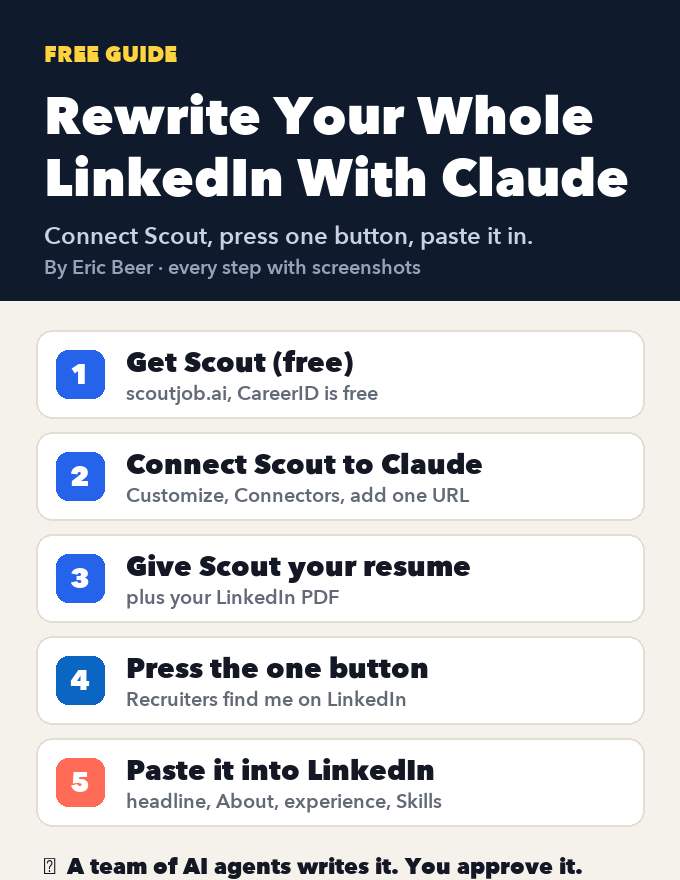
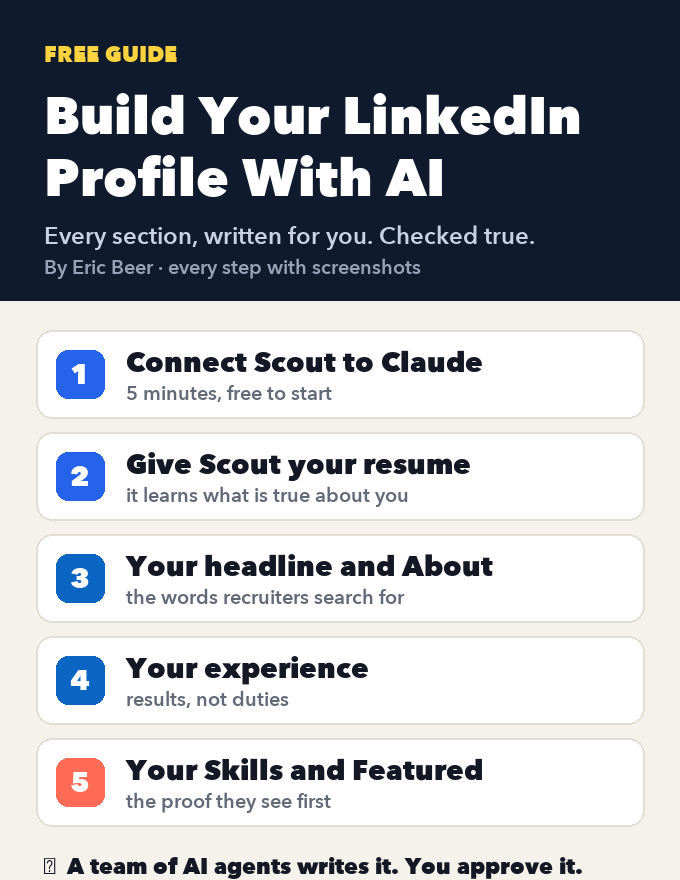
LINKEDIN guide: refocus on building your LinkedIn profile section by section (headline, About, experience, Skills, Featured), with Scout + Claude as the way to do it

diff --git a/g/scout-linkedin-profile-3ece25707d/index.html b/g/scout-linkedin-profile-3ece25707d/index.html
@@ -3,11 +3,11 @@
 <head>
 <meta charset="utf-8">
 <meta name="viewport" content="width=device-width, initial-scale=1">
-<title>Rewrite Your LinkedIn With Claude | Eric Beer</title>
-<meta name="description" content="Connect Scout to Claude, give it your resume, and press one button. A team of AI agents writes your headline, About, experience, Featured and Skills, checked against what&#x27;s true. Every step with screenshots.">
+<title>Build Your LinkedIn Profile With AI | Eric Beer</title>
+<meta name="description" content="Create or fix your LinkedIn profile, section by section: headline, About, experience, Skills and Featured. Connect Scout to Claude, give it your resume, and AI agents write every section, checked against what&#x27;s true. Every step with screenshots.">
 <link rel="canonical" href="https://ericbeer.ai/g/scout-linkedin-profile-3ece25707d/">
-<meta property="og:title" content="Rewrite Your LinkedIn With Claude | Eric Beer">
-<meta property="og:description" content="Connect Scout to Claude, give it your resume, and press one button. A team of AI agents writes your headline, About, experience, Featured and Skills, checked against what&#x27;s true. Every step with screenshots.">
+<meta property="og:title" content="Build Your LinkedIn Profile With AI | Eric Beer">
+<meta property="og:description" content="Create or fix your LinkedIn profile, section by section: headline, About, experience, Skills and Featured. Connect Scout to Claude, give it your resume, and AI agents write every section, checked against what&#x27;s true. Every step with screenshots.">
 <meta property="og:type" content="website">
 <meta property="og:url" content="https://ericbeer.ai/g/scout-linkedin-profile-3ece25707d/">
 <meta property="og:image" content="https://ericbeer.ai/assets/eric-hero.jpg">
@@ -23,9 +23,9 @@
 <div class="full-card"><h2>Want the complete guide?</h2><p>The full guide, every other guide, the AI agents I use and live calls are going inside my community. Join the waitlist for the founding-member price.</p>
 <a class="btn btn-gold" href="/#waitlist">Join the waitlist &rarr;</a></div>
 <div class="script">your free guide</div>
-<h1>Let Claude rewrite your whole LinkedIn profile: connect Scout and press one button</h1>
-<div class="gintro"><p>My LinkedIn profile got hacked. Someone filled it with jobs I never had, at Boeing and Lockheed, and a university I never went to. On top of that, I hadn't really updated it in years, because rewriting your own profile is a chore nobody wants.</p><p>So I let Claude do it. I connected a tool called Scout to Claude, gave it my resume, and pressed one button. A team of AI agents read my background, checked every line against what's actually true, and rewrote my whole profile: headline, About, experience, Featured and Skills.</p><p>Here's exactly how to do the same thing, step by step, with a screenshot of every screen. It takes about 15 minutes.</p><p><b>One honest note before you start:</b> Scout writes everything, and you paste it into LinkedIn yourself. Scout never logs into LinkedIn or posts for you, because LinkedIn bans automated activity and your account is worth protecting. Copying a few sections in takes a couple of minutes.</p></div>
-<section class="gsec"><div class="gnum">1</div><h2>Step 1: Get Scout (free)</h2><p>Scout is the AI job agent that does the work. It's built by BeChosen and lives at <b>scoutjob.ai</b>. Your CareerID (the profile Scout builds about you) is free, and the paid tools come with a 7-day trial, no card needed.</p><p>Go to <a href="https://scoutjob.ai" target="_blank" rel="noopener">scoutjob.ai</a> and click <b>Start free</b>.</p><img src="/assets/guides/linkedin/01-scoutjob-home.jpg" alt="The scoutjob.ai home page with the Start free button" loading="lazy" style="display:block;width:100%;height:auto;border:1px solid #E3E7EF;border-radius:12px;margin:14px 0"><p>While you're getting set up, grab two files you'll give Scout in Step 4:</p><ol><li><b>Your resume</b> (PDF or Word).</li><li><b>Your LinkedIn profile as a PDF.</b> On LinkedIn, open your profile, click <b>Resources</b> (or <b>More</b>), then <b>Save to PDF</b>.</li></ol></section><section class="gsec"><div class="gnum">2</div><h2>Step 2: Connect Scout to Claude</h2><p>Now plug Scout into Claude. This works on claude.ai and in the Claude desktop app.</p><ol><li>Click <b>Customize</b> in the left sidebar, then <b>Connectors</b>.</li></ol><img src="/assets/guides/linkedin/02-claude-connectors.jpg" alt="Claude settings open on the Connectors page" loading="lazy" style="display:block;width:100%;height:auto;border:1px solid #E3E7EF;border-radius:12px;margin:14px 0"><ol start="2"><li>Click <b>Add</b> in the top right, then <b>Add custom connector</b>.</li></ol><img src="/assets/guides/linkedin/03-add-custom-connector.jpg" alt="The Add menu showing Add custom connector" loading="lazy" style="display:block;width:100%;height:auto;border:1px solid #E3E7EF;border-radius:12px;margin:14px 0"><ol start="3"><li>Name it <b>Scout Jobs</b>. For the URL, paste this exactly:</li></ol><div class="prompt"><span class="tag">Paste this URL</span>https://scoutjob.ai/mcp</div><img src="/assets/guides/linkedin/04-scout-url.jpg" alt="The Add custom connector form filled in with Scout Jobs and https://scoutjob.ai/mcp" loading="lazy" style="display:block;width:100%;height:auto;border:1px solid #E3E7EF;border-radius:12px;margin:14px 0"><ol start="4"><li>Leave everything else as it is (no client ID or secret needed) and click <b>Continue</b>.</li><li>When it asks, sign in with your BeChosen account and tap <b>Allow</b>.</li></ol><p>You'll see Scout in your connectors list, marked <b>Connected</b>.</p><img src="/assets/guides/linkedin/05-scout-connected.jpg" alt="Scout listed in Claude's connectors with a Connected check mark" loading="lazy" style="display:block;width:100%;height:auto;border:1px solid #E3E7EF;border-radius:12px;margin:14px 0"><p>Custom connectors depend on your Claude plan. If you don't see <b>Add custom connector</b>, check Claude's help page on custom connectors for your plan.</p></section><section class="gsec"><div class="gnum">3</div><h2>Step 3: Let Scout work without asking every time</h2><p>One more setting, and it matters. Open <b>Scout</b> in your connectors list. Under <b>Tool permissions</b>, set the groups to <b>Always allow</b>.</p><img src="/assets/guides/linkedin/06-always-allow.jpg" alt="Scout's tool permissions in Claude set to Always allow" loading="lazy" style="display:block;width:100%;height:auto;border:1px solid #E3E7EF;border-radius:12px;margin:14px 0"><p>That lets Scout work for you without stopping to ask permission at every step. Anything that sends, applies, publishes or charges money still needs your own tap on a scoutjob.ai page, so you stay in control.</p></section><section class="gsec"><div class="gnum">4</div><h2>Step 4: Give Scout your resume</h2><p>Open a new chat in Claude, attach your resume and your LinkedIn PDF, and say hi.</p><div class="prompt"><span class="tag">Copy this in</span>Hi Scout. Here's my resume and my LinkedIn profile as a PDF. Get to know me and build my CareerID. The job I want next is <span class="fill">[the role or kind of role you want]</span>.</div><p>Scout reads everything and builds your <b>CareerID</b>: a detailed profile of your background, your results, and what's actually true about you. Everything else Scout does is checked against it. That's why the fake Boeing and Lockheed jobs on my profile didn't survive: they weren't in my CareerID, so Scout flagged them instead of keeping them.</p><p>Ask for the menu any time:</p><div class="prompt"><span class="tag">Copy this in</span>Scout, show me the menu</div><img src="/assets/guides/linkedin/07-scout-menu.jpg" alt="The Scout Jobs menu inside a Claude chat" loading="lazy" style="display:block;width:100%;height:auto;border:1px solid #E3E7EF;border-radius:12px;margin:14px 0"></section><section class="gsec"><div class="gnum">5</div><h2>Step 5: Press the one button</h2><p>In the menu, under <b>Prepare your materials</b>, tap <b>Recruiters find me on LinkedIn</b>. (Or just type <b>Start: Recruiters find me on LinkedIn</b>.)</p><img src="/assets/guides/linkedin/08-linkedin-button.jpg" alt="The Recruiters find me on LinkedIn button in Scout's menu" loading="lazy" style="display:block;width:100%;height:auto;border:1px solid #E3E7EF;border-radius:12px;margin:14px 0"><p>This is the one button. Behind it, a LinkedIn Profile manager runs a team of specialist agents:</p><ul><li><b>Resume Reader</b> takes in your resume, your LinkedIn PDF and the jobs you want.</li><li><b>Role Analyst</b> pulls the words recruiters actually search for in those jobs.</li><li><b>Profile Auditor</b> checks your current profile against those jobs before changing anything.</li><li><b>Positioner</b> decides who your profile says you are.</li><li><b>Proof Selector</b> picks the best proof for each section.</li><li><b>Profile Writer</b> writes your headline, About, experience, Featured and Skills.</li><li><b>Claim Checker</b> checks every line against your CareerID, so nothing untrue gets in.</li><li><b>Activity Planner</b> plans 4 weeks of posts that show what you know.</li><li><b>Outreach Writer</b> drafts endorsement asks for you to send.</li></ul><p>You get back every section, ready to paste.</p></section><section class="gsec"><div class="gnum">6</div><h2>Step 6: Paste it into LinkedIn</h2><p>Open your LinkedIn profile in another tab and work top to bottom: headline, About, each job in Experience, Featured, then Skills. Click the pencil on each section and paste in what Scout wrote.</p><p>If something doesn't sound like you, tell Scout. It rewrites from your CareerID, so it stays true.</p><div class="prompt"><span class="tag">Copy this in</span>Scout, my About section sounds too formal. Rewrite it the way I talk: <span class="fill">[paste a sentence or two you'd actually say]</span>.</div><div class="prompt"><span class="tag">Copy this in</span>Scout, give me 3 more headline options aimed at <span class="fill">[the role you want]</span>, under 220 characters.</div><p>If your profile was tampered with like mine, delete anything Scout flagged as not matching your CareerID, then change your LinkedIn password and turn on two-step verification.</p></section><section class="gsec"><div class="gnum">7</div><h2>Keep it current from now on</h2><p>Your profile goes stale because updating it is a chore. With Scout it isn't. When something changes, tell Scout in one line and it keeps your CareerID current:</p><div class="prompt"><span class="tag">Copy this in</span>Scout, here's what happened today: <span class="fill">[new project, new result, new certification, new role]</span>.</div><p>Then run <b>Recruiters find me on LinkedIn</b> again whenever you want the profile refreshed. Scout also posts nothing for you: the 4 weeks of posts it plans are drafts you copy and post yourself.</p></section>
+<h1>Build your LinkedIn profile with AI: connect Scout to Claude and let it write every section</h1>
+<div class="gintro"><p>Your LinkedIn profile is the first thing a recruiter checks. Mine was a mess. Someone hacked it and filled it with jobs I never had, at Boeing and Lockheed, and a university I never went to. And I hadn't really updated it in years, because writing your own profile is a chore nobody wants.</p><p>So I had AI build the whole thing. I connected a tool called Scout to Claude, gave it my resume, and pressed one button. A team of AI agents wrote every section of my profile, checked every line against what's actually true about me, and handed it back ready to paste.</p><p>This guide walks you through building your LinkedIn profile the same way, section by section: headline, About, experience, Skills and Featured. It works whether you're fixing an old profile or creating one from scratch.</p><p><b>How it works, honestly:</b> Scout writes everything, and you paste it into LinkedIn yourself. Scout never logs into LinkedIn or posts for you, because LinkedIn bans automated activity and your account is worth protecting. Pasting each section takes a minute.</p></div>
+<section class="gsec"><div class="gnum">1</div><h2>Step 1: Connect Scout to Claude (5 minutes)</h2><p>Five minutes of setup, once. After this, Scout lives inside Claude and knows you.</p><ol><li>Go to <a href="https://scoutjob.ai" target="_blank" rel="noopener">scoutjob.ai</a> and click <b>Start free</b>. Your CareerID (the profile Scout builds about you) is free, and the paid tools come with a 7-day trial, no card needed.</li></ol><img src="/assets/guides/linkedin/01-scoutjob-home.jpg" alt="The scoutjob.ai home page with the Start free button" loading="lazy" style="display:block;width:100%;height:auto;border:1px solid #E3E7EF;border-radius:12px;margin:14px 0"><ol start="2"><li>In Claude, click <b>Customize</b> in the left sidebar, then <b>Connectors</b>. Click <b>Add</b>, then <b>Add custom connector</b>.</li></ol><img src="/assets/guides/linkedin/03-add-custom-connector.jpg" alt="The Add menu in Claude's connectors showing Add custom connector" loading="lazy" style="display:block;width:100%;height:auto;border:1px solid #E3E7EF;border-radius:12px;margin:14px 0"><ol start="3"><li>Name it <b>Scout Jobs</b> and paste this URL, then click <b>Continue</b>. Sign in with your BeChosen account and tap <b>Allow</b>.</li></ol><div class="prompt"><span class="tag">Paste this URL</span>https://scoutjob.ai/mcp</div><img src="/assets/guides/linkedin/04-scout-url.jpg" alt="The Add custom connector form filled in with Scout Jobs and https://scoutjob.ai/mcp" loading="lazy" style="display:block;width:100%;height:auto;border:1px solid #E3E7EF;border-radius:12px;margin:14px 0"><ol start="4"><li>Open <b>Scout</b> in your connectors list and set <b>Tool permissions</b> to <b>Always allow</b>, so Scout can work without stopping to ask at every step. Anything that sends, applies, publishes or charges money still needs your own tap.</li></ol><img src="/assets/guides/linkedin/06-always-allow.jpg" alt="Scout's tool permissions in Claude set to Always allow" loading="lazy" style="display:block;width:100%;height:auto;border:1px solid #E3E7EF;border-radius:12px;margin:14px 0"><p>Custom connectors depend on your Claude plan. If you don't see <b>Add custom connector</b>, check Claude's help page on custom connectors.</p></section><section class="gsec"><div class="gnum">2</div><h2>Step 2: Give Scout your resume</h2><p>Your profile can only be as good as what Scout knows about you. Open a new chat in Claude and attach:</p><ul><li><b>Your resume</b> (PDF or Word).</li><li><b>Your current LinkedIn profile as a PDF</b>, if you have one. On LinkedIn, open your profile, click <b>Resources</b> (or <b>More</b>), then <b>Save to PDF</b>. No profile yet? Skip it.</li></ul><div class="prompt"><span class="tag">Copy this in</span>Hi Scout. Here's my resume and my LinkedIn profile as a PDF. Get to know me and build my CareerID. I want my LinkedIn profile to get me found for <span class="fill">[the role or kind of role you want next]</span>.</div><p>Scout builds your <b>CareerID</b>: what you've done, the results you got, and what's actually true about you. Every line of your new profile gets checked against it. That's how the fake Boeing and Lockheed jobs on my profile got caught: they weren't in my CareerID, so Scout flagged them instead of keeping them.</p></section><section class="gsec"><div class="gnum">3</div><h2>Step 3: Press the one button</h2><p>Ask Scout for the menu, then under <b>Prepare your materials</b> tap <b>Recruiters find me on LinkedIn</b>.</p><div class="prompt"><span class="tag">Copy this in</span>Scout, show me the menu</div><img src="/assets/guides/linkedin/08-linkedin-button.jpg" alt="The Recruiters find me on LinkedIn button in Scout's menu" loading="lazy" style="display:block;width:100%;height:auto;border:1px solid #E3E7EF;border-radius:12px;margin:14px 0"><p>(Or just type <b>Start: Recruiters find me on LinkedIn</b>.)</p><p>Behind that one button, a team of AI agents builds your profile:</p><ul><li><b>Role Analyst</b> pulls the words recruiters actually search for in the jobs you want.</li><li><b>Profile Auditor</b> checks your current profile against those jobs before changing anything.</li><li><b>Positioner</b> decides who your profile says you are, in one clear line.</li><li><b>Profile Writer</b> writes your headline, About, experience, Featured and Skills.</li><li><b>Claim Checker</b> checks every line against your CareerID, so nothing untrue gets in.</li><li><b>Activity Planner</b> plans 4 weeks of posts that show what you know.</li></ul><p>You get every section back, ready to paste. The next steps take them one at a time.</p></section><section class="gsec"><div class="gnum">4</div><h2>Step 4: Your headline</h2><p>The headline is the line under your name. It shows up in search results, in comments and on every message you send, so it does more work than any other part of your profile. A good one says who you help or what you do, with the words recruiters search for. Not just your job title.</p><div class="prompt"><span class="tag">Copy this in</span>Scout, give me 5 LinkedIn headline options for <span class="fill">[the role you want]</span>, using the words recruiters search for. Under 220 characters each.</div><p style="background:#F4F6FB;border-radius:10px;padding:12px 16px;margin:12px 0"><b>Where it goes on LinkedIn:</b> your profile, click the pencil next to your name. The headline is the field under your name. Paste it, then click <b>Save</b>.</p></section><section class="gsec"><div class="gnum">5</div><h2>Step 5: Your About section</h2><p>Your About section is where a recruiter decides whether to keep reading. It should sound like you talking: what you do, the results you've gotten, and what you want next. Scout writes it from your CareerID, so every claim in it is true.</p><div class="prompt"><span class="tag">Copy this in</span>Scout, rewrite my About section the way I talk. Here's a sentence or two I'd actually say: <span class="fill">[paste one or two sentences]</span>.</div><p style="background:#F4F6FB;border-radius:10px;padding:12px 16px;margin:12px 0"><b>Where it goes on LinkedIn:</b> on your profile, find the <b>About</b> section and click the pencil (or <b>Add profile section</b>, then <b>About</b>, if you don't have one). Paste it and click <b>Save</b>.</p></section><section class="gsec"><div class="gnum">6</div><h2>Step 6: Your experience</h2><p>Each job should show results, not duties. Scout rewrites every role around what you got done, using the proof from your CareerID.</p><div class="prompt"><span class="tag">Copy this in</span>Scout, for each job in my experience, give me the title, company, dates and 3 to 5 lines that lead with results. Flag anything on my current profile that isn't in my CareerID.</div><p style="background:#F4F6FB;border-radius:10px;padding:12px 16px;margin:12px 0"><b>Where it goes on LinkedIn:</b> in the <b>Experience</b> section, click the pencil on each job and paste the new description. If Scout flagged a job you never had (like the ones on my hacked profile), delete it. If a job is missing, click the <b>+</b> to add it.</p><p>If your profile was tampered with like mine, also change your LinkedIn password and turn on two-step verification.</p></section><section class="gsec"><div class="gnum">7</div><h2>Step 7: Your Skills and Featured</h2><p><b>Skills:</b> recruiters filter by them. Scout picks the ones that match your target jobs, in the words recruiters use.</p><div class="prompt"><span class="tag">Copy this in</span>Scout, list the 15 LinkedIn skills I should have for <span class="fill">[the role you want]</span>, most important first, and tell me which 3 to pin at the top.</div><p style="background:#F4F6FB;border-radius:10px;padding:12px 16px;margin:12px 0"><b>Where it goes on LinkedIn:</b> in the <b>Skills</b> section, click the <b>+</b> to add each skill. Remove the ones that don't fit what you want next.</p><p><b>Featured:</b> the proof a recruiter sees first. A project, a result, an article, a site. Scout suggests what to put there and writes the description for each item.</p><div class="prompt"><span class="tag">Copy this in</span>Scout, what should go in my LinkedIn Featured section, and write a one-line description for each.</div><p style="background:#F4F6FB;border-radius:10px;padding:12px 16px;margin:12px 0"><b>Where it goes on LinkedIn:</b> <b>Add profile section</b>, then <b>Recommended</b>, then <b>Add featured</b>. Add each link or file and paste the description.</p></section><section class="gsec"><div class="gnum">8</div><h2>Step 8: Get seen, and keep it current</h2><p>A finished profile gets you found. Activity gets you remembered. Scout's Activity Planner drafts 4 weeks of posts that show what you know, and the Outreach Writer drafts endorsement asks for people you've worked with. You post and send them yourself.</p><div class="prompt"><span class="tag">Copy this in</span>Scout, give me my first week of LinkedIn posts from the 4-week plan, ready to copy.</div><p>When something changes (a new project, a result, a certification, a new job), tell Scout in one line and it keeps your CareerID current. Then press <b>Recruiters find me on LinkedIn</b> again any time you want your profile refreshed.</p><div class="prompt"><span class="tag">Copy this in</span>Scout, here's what happened today: <span class="fill">[new project, new result, new certification, new role]</span>.</div></section>
 <section class="locked"><div class="fade" aria-hidden="true"><span class="bar" style="width:96%"></span><span class="bar" style="width:88%"></span><span class="bar" style="width:92%"></span><span class="bar" style="width:70%"></span><span class="bar" style="width:95%"></span><span class="bar" style="width:84%"></span><span class="bar" style="width:60%"></span><span class="bar" style="width:90%"></span><span class="bar" style="width:78%"></span></div>
 <div class="lockbox">
 <div class="script">the rest of this guide is inside the community</div>

diff --git a/guides/scout-linkedin-profile/index.html b/guides/scout-linkedin-profile/index.html
@@ -3,11 +3,11 @@
 <head>
 <meta charset="utf-8">
 <meta name="viewport" content="width=device-width, initial-scale=1">
-<title>Rewrite Your LinkedIn With Claude | free guide by Eric Beer</title>
-<meta name="description" content="Connect Scout to Claude, give it your resume, and press one button. A team of AI agents writes your headline, About, experience, Featured and Skills, checked against what&#x27;s true. Every step with screenshots.">
+<title>Build Your LinkedIn Profile With AI | free guide by Eric Beer</title>
+<meta name="description" content="Create or fix your LinkedIn profile, section by section: headline, About, experience, Skills and Featured. Connect Scout to Claude, give it your resume, and AI agents write every section, checked against what&#x27;s true. Every step with screenshots.">
 <link rel="canonical" href="https://ericbeer.ai/guides/scout-linkedin-profile/">
-<meta property="og:title" content="Rewrite Your LinkedIn With Claude | free guide by Eric Beer">
-<meta property="og:description" content="Connect Scout to Claude, give it your resume, and press one button. A team of AI agents writes your headline, About, experience, Featured and Skills, checked against what&#x27;s true. Every step with screenshots.">
+<meta property="og:title" content="Build Your LinkedIn Profile With AI | free guide by Eric Beer">
+<meta property="og:description" content="Create or fix your LinkedIn profile, section by section: headline, About, experience, Skills and Featured. Connect Scout to Claude, give it your resume, and AI agents write every section, checked against what&#x27;s true. Every step with screenshots.">
 <meta property="og:type" content="website">
 <meta property="og:url" content="https://ericbeer.ai/guides/scout-linkedin-profile/">
 <meta property="og:image" content="https://ericbeer.ai/assets/eric-hero.jpg">
@@ -23,9 +23,9 @@
 <section class="guide-hero"><div class="wrap grid">
 <div>
 <div class="script">free guide</div>
-<h1>Let Claude rewrite your whole LinkedIn profile: connect Scout and press one button</h1>
-<p class="lead">Connect Scout to Claude, give it your resume, and press one button. A team of AI agents writes your headline, About, experience, Featured and Skills, checked against what&#x27;s true. Every step with screenshots.</p>
-<div class="inside"><h2>What's inside</h2><ol><li>Step 1: Get Scout (free)</li><li>Step 2: Connect Scout to Claude</li><li>Step 3: Let Scout work without asking every time</li><li>Step 4: Give Scout your resume</li><li>Step 5: Press the one button</li><li>Step 6: Paste it into LinkedIn</li><li>Keep it current from now on</li><li class="lk">My before and after LinkedIn profile, section by section</li><li class="lk">The exact prompts I used to make it sound like me</li><li class="lk">How I&#x27;m using Scout for the rest of the job search</li><li class="lk">First access to new Scout tools as they come out</li></ol><p class="note" style="text-align:left;margin-top:10px">The first 7 parts are free. The rest is inside the community.</p></div>
+<h1>Build your LinkedIn profile with AI: connect Scout to Claude and let it write every section</h1>
+<p class="lead">Create or fix your LinkedIn profile, section by section: headline, About, experience, Skills and Featured. Connect Scout to Claude, give it your resume, and AI agents write every section, checked against what&#x27;s true. Every step with screenshots.</p>
+<div class="inside"><h2>What's inside</h2><ol><li>Step 1: Connect Scout to Claude (5 minutes)</li><li>Step 2: Give Scout your resume</li><li>Step 3: Press the one button</li><li>Step 4: Your headline</li><li>Step 5: Your About section</li><li>Step 6: Your experience</li><li>Step 7: Your Skills and Featured</li><li>Step 8: Get seen, and keep it current</li><li class="lk">My before and after LinkedIn profile, section by section</li><li class="lk">The exact prompts I used to make it sound like me</li><li class="lk">How I&#x27;m using Scout for the rest of the job search</li><li class="lk">First access to new Scout tools as they come out</li></ol><p class="note" style="text-align:left;margin-top:10px">The first 8 parts are free. The rest is inside the community.</p></div>
 </div>
 <div>
 <div class="panel lock-only" id="get">
@@ -48,7 +48,7 @@
 <p><a class="btn btn-gold" href="/g/scout-linkedin-profile-3ece25707d/">Open the guide &rarr;</a></p>
 <p style="font-size:14px;color:#C9C2B3;margin:14px 0 0">You're also on my short daily email with what I'm building with AI. Unsubscribe anytime.</p>
 </div>
-<figure class="cover" style="margin:28px 0 0"><img src="/assets/guides/linkedin-cover-1.png" alt="Cover of Rewrite Your LinkedIn With Claude"></figure>
+<figure class="cover" style="margin:28px 0 0"><img src="/assets/guides/linkedin-cover-1.png" alt="Cover of Build Your LinkedIn Profile With AI"></figure>
 </div>
 </div></section>
 <hr class="divider">

diff --git a/g/ai-company-blueprint-186354cd0c/index.html b/g/ai-company-blueprint-186354cd0c/index.html
@@ -95,10 +95,10 @@ write a note in work/decisions/ for the owner and stop.</div><p>You do not have 
 <p>Connect Scout to Claude and a team of AI agents learns who you are, builds your CareerID and a Showcase website, finds jobs, makes a custom Showcase for each one, applies, and emails the hiring manager. Every step, with screenshots.</p>
 <a class="go" href="/guides/ai-job-agent-scout/">Get the guide &rarr;</a>
 </article><article class="card" data-topics="agents getting-started">
-<a class="thumb" href="/guides/scout-linkedin-profile/"><img src="/assets/guides/linkedin-cover-1.png" alt="Cover of Rewrite Your LinkedIn With Claude" loading="lazy"></a>
+<a class="thumb" href="/guides/scout-linkedin-profile/"><img src="/assets/guides/linkedin-cover-1.png" alt="Cover of Build Your LinkedIn Profile With AI" loading="lazy"></a>
 <div class="chips"><span class="chip">AI agents</span><span class="chip">Getting started</span><span class="chip tool">Claude + Scout</span></div>
-<h3>Let Claude rewrite your whole LinkedIn profile: connect Scout and press one button</h3>
-<p>Connect Scout to Claude, give it your resume, and press one button. A team of AI agents writes your headline, About, experience, Featured and Skills, checked against what&#x27;s true. Every step with screenshots.</p>
+<h3>Build your LinkedIn profile with AI: connect Scout to Claude and let it write every section</h3>
+<p>Create or fix your LinkedIn profile, section by section: headline, About, experience, Skills and Featured. Connect Scout to Claude, give it your resume, and AI agents write every section, checked against what&#x27;s true. Every step with screenshots.</p>
 <a class="go" href="/guides/scout-linkedin-profile/">Get the guide &rarr;</a>
 </article><article class="card" data-topics="agents getting-started">
 <a class="thumb" href="/guides/ai-operating-system-blueprint/"><img src="/assets/guides/os-cover-1.png" alt="Cover of The AI Operating System Blueprint" loading="lazy"></a>

diff --git a/g/ai-system-starter-kit-0bd77ed1a3/index.html b/g/ai-system-starter-kit-0bd77ed1a3/index.html
@@ -55,10 +55,10 @@ Before you tell me how to do it, tell me what questions I should answer so you c
 <p>Connect Scout to Claude and a team of AI agents learns who you are, builds your CareerID and a Showcase website, finds jobs, makes a custom Showcase for each one, applies, and emails the hiring manager. Every step, with screenshots.</p>
 <a class="go" href="/guides/ai-job-agent-scout/">Get the guide &rarr;</a>
 </article><article class="card" data-topics="agents getting-started">
-<a class="thumb" href="/guides/scout-linkedin-profile/"><img src="/assets/guides/linkedin-cover-1.png" alt="Cover of Rewrite Your LinkedIn With Claude" loading="lazy"></a>
+<a class="thumb" href="/guides/scout-linkedin-profile/"><img src="/assets/guides/linkedin-cover-1.png" alt="Cover of Build Your LinkedIn Profile With AI" loading="lazy"></a>
 <div class="chips"><span class="chip">AI agents</span><span class="chip">Getting started</span><span class="chip tool">Claude + Scout</span></div>
-<h3>Let Claude rewrite your whole LinkedIn profile: connect Scout and press one button</h3>
-<p>Connect Scout to Claude, give it your resume, and press one button. A team of AI agents writes your headline, About, experience, Featured and Skills, checked against what&#x27;s true. Every step with screenshots.</p>
+<h3>Build your LinkedIn profile with AI: connect Scout to Claude and let it write every section</h3>
+<p>Create or fix your LinkedIn profile, section by section: headline, About, experience, Skills and Featured. Connect Scout to Claude, give it your resume, and AI agents write every section, checked against what&#x27;s true. Every step with screenshots.</p>
 <a class="go" href="/guides/scout-linkedin-profile/">Get the guide &rarr;</a>
 </article><article class="card" data-topics="agents getting-started">
 <a class="thumb" href="/guides/ai-operating-system-blueprint/"><img src="/assets/guides/os-cover-1.png" alt="Cover of The AI Operating System Blueprint" loading="lazy"></a>

diff --git a/g/your-ai-team-9aea95b89c/index.html b/g/your-ai-team-9aea95b89c/index.html
@@ -50,10 +50,10 @@ Break this outcome into the smallest steps, one job per step, in the order they 
 <p>Connect Scout to Claude and a team of AI agents learns who you are, builds your CareerID and a Showcase website, finds jobs, makes a custom Showcase for each one, applies, and emails the hiring manager. Every step, with screenshots.</p>
 <a class="go" href="/guides/ai-job-agent-scout/">Get the guide &rarr;</a>
 </article><article class="card" data-topics="agents getting-started">
-<a class="thumb" href="/guides/scout-linkedin-profile/"><img src="/assets/guides/linkedin-cover-1.png" alt="Cover of Rewrite Your LinkedIn With Claude" loading="lazy"></a>
+<a class="thumb" href="/guides/scout-linkedin-profile/"><img src="/assets/guides/linkedin-cover-1.png" alt="Cover of Build Your LinkedIn Profile With AI" loading="lazy"></a>
 <div class="chips"><span class="chip">AI agents</span><span class="chip">Getting started</span><span class="chip tool">Claude + Scout</span></div>
-<h3>Let Claude rewrite your whole LinkedIn profile: connect Scout and press one button</h3>
-<p>Connect Scout to Claude, give it your resume, and press one button. A team of AI agents writes your headline, About, experience, Featured and Skills, checked against what&#x27;s true. Every step with screenshots.</p>
+<h3>Build your LinkedIn profile with AI: connect Scout to Claude and let it write every section</h3>
+<p>Create or fix your LinkedIn profile, section by section: headline, About, experience, Skills and Featured. Connect Scout to Claude, give it your resume, and AI agents write every section, checked against what&#x27;s true. Every step with screenshots.</p>
 <a class="go" href="/guides/scout-linkedin-profile/">Get the guide &rarr;</a>
 </article><article class="card" data-topics="agents getting-started">
 <a class="thumb" href="/guides/ai-operating-system-blueprint/"><img src="/assets/guides/os-cover-1.png" alt="Cover of The AI Operating System Blueprint" loading="lazy"></a>

diff --git a/g/viral-remix-kit-212a2e847f/index.html b/g/viral-remix-kit-212a2e847f/index.html
@@ -97,10 +97,10 @@ Give me:
 <p>Connect Scout to Claude and a team of AI agents learns who you are, builds your CareerID and a Showcase website, finds jobs, makes a custom Showcase for each one, applies, and emails the hiring manager. Every step, with screenshots.</p>
 <a class="go" href="/guides/ai-job-agent-scout/">Get the guide &rarr;</a>
 </article><article class="card" data-topics="agents getting-started">
-<a class="thumb" href="/guides/scout-linkedin-profile/"><img src="/assets/guides/linkedin-cover-1.png" alt="Cover of Rewrite Your LinkedIn With Claude" loading="lazy"></a>
+<a class="thumb" href="/guides/scout-linkedin-profile/"><img src="/assets/guides/linkedin-cover-1.png" alt="Cover of Build Your LinkedIn Profile With AI" loading="lazy"></a>
 <div class="chips"><span class="chip">AI agents</span><span class="chip">Getting started</span><span class="chip tool">Claude + Scout</span></div>
-<h3>Let Claude rewrite your whole LinkedIn profile: connect Scout and press one button</h3>
-<p>Connect Scout to Claude, give it your resume, and press one button. A team of AI agents writes your headline, About, experience, Featured and Skills, checked against what&#x27;s true. Every step with screenshots.</p>
+<h3>Build your LinkedIn profile with AI: connect Scout to Claude and let it write every section</h3>
+<p>Create or fix your LinkedIn profile, section by section: headline, About, experience, Skills and Featured. Connect Scout to Claude, give it your resume, and AI agents write every section, checked against what&#x27;s true. Every step with screenshots.</p>
 <a class="go" href="/guides/scout-linkedin-profile/">Get the guide &rarr;</a>
 </article><article class="card" data-topics="agents getting-started">
 <a class="thumb" href="/guides/ai-operating-system-blueprint/"><img src="/assets/guides/os-cover-1.png" alt="Cover of The AI Operating System Blueprint" loading="lazy"></a>

diff --git a/g/ai-org-chart-5251fbf4d0/index.html b/g/ai-org-chart-5251fbf4d0/index.html
@@ -47,10 +47,10 @@
 <p>Connect Scout to Claude and a team of AI agents learns who you are, builds your CareerID and a Showcase website, finds jobs, makes a custom Showcase for each one, applies, and emails the hiring manager. Every step, with screenshots.</p>
 <a class="go" href="/guides/ai-job-agent-scout/">Get the guide &rarr;</a>
 </article><article class="card" data-topics="agents getting-started">
-<a class="thumb" href="/guides/scout-linkedin-profile/"><img src="/assets/guides/linkedin-cover-1.png" alt="Cover of Rewrite Your LinkedIn With Claude" loading="lazy"></a>
+<a class="thumb" href="/guides/scout-linkedin-profile/"><img src="/assets/guides/linkedin-cover-1.png" alt="Cover of Build Your LinkedIn Profile With AI" loading="lazy"></a>
 <div class="chips"><span class="chip">AI agents</span><span class="chip">Getting started</span><span class="chip tool">Claude + Scout</span></div>
-<h3>Let Claude rewrite your whole LinkedIn profile: connect Scout and press one button</h3>
-<p>Connect Scout to Claude, give it your resume, and press one button. A team of AI agents writes your headline, About, experience, Featured and Skills, checked against what&#x27;s true. Every step with screenshots.</p>
+<h3>Build your LinkedIn profile with AI: connect Scout to Claude and let it write every section</h3>
+<p>Create or fix your LinkedIn profile, section by section: headline, About, experience, Skills and Featured. Connect Scout to Claude, give it your resume, and AI agents write every section, checked against what&#x27;s true. Every step with screenshots.</p>
 <a class="go" href="/guides/scout-linkedin-profile/">Get the guide &rarr;</a>
 </article><article class="card" data-topics="agents getting-started">
 <a class="thumb" href="/guides/ai-operating-system-blueprint/"><img src="/assets/guides/os-cover-1.png" alt="Cover of The AI Operating System Blueprint" loading="lazy"></a>

diff --git a/g/first-5-ai-jobs-3addc010df/index.html b/g/first-5-ai-jobs-3addc010df/index.html
@@ -47,10 +47,10 @@
 <p>Connect Scout to Claude and a team of AI agents learns who you are, builds your CareerID and a Showcase website, finds jobs, makes a custom Showcase for each one, applies, and emails the hiring manager. Every step, with screenshots.</p>
 <a class="go" href="/guides/ai-job-agent-scout/">Get the guide &rarr;</a>
 </article><article class="card" data-topics="agents getting-started">
-<a class="thumb" href="/guides/scout-linkedin-profile/"><img src="/assets/guides/linkedin-cover-1.png" alt="Cover of Rewrite Your LinkedIn With Claude" loading="lazy"></a>
+<a class="thumb" href="/guides/scout-linkedin-profile/"><img src="/assets/guides/linkedin-cover-1.png" alt="Cover of Build Your LinkedIn Profile With AI" loading="lazy"></a>
 <div class="chips"><span class="chip">AI agents</span><span class="chip">Getting started</span><span class="chip tool">Claude + Scout</span></div>
-<h3>Let Claude rewrite your whole LinkedIn profile: connect Scout and press one button</h3>
-<p>Connect Scout to Claude, give it your resume, and press one button. A team of AI agents writes your headline, About, experience, Featured and Skills, checked against what&#x27;s true. Every step with screenshots.</p>
+<h3>Build your LinkedIn profile with AI: connect Scout to Claude and let it write every section</h3>
+<p>Create or fix your LinkedIn profile, section by section: headline, About, experience, Skills and Featured. Connect Scout to Claude, give it your resume, and AI agents write every section, checked against what&#x27;s true. Every step with screenshots.</p>
 <a class="go" href="/guides/scout-linkedin-profile/">Get the guide &rarr;</a>
 </article><article class="card" data-topics="agents getting-started">
 <a class="thumb" href="/guides/ai-operating-system-blueprint/"><img src="/assets/guides/os-cover-1.png" alt="Cover of The AI Operating System Blueprint" loading="lazy"></a>

diff --git a/g/make-ai-think-2ab49b120c/index.html b/g/make-ai-think-2ab49b120c/index.html
@@ -47,10 +47,10 @@
 <p>Connect Scout to Claude and a team of AI agents learns who you are, builds your CareerID and a Showcase website, finds jobs, makes a custom Showcase for each one, applies, and emails the hiring manager. Every step, with screenshots.</p>
 <a class="go" href="/guides/ai-job-agent-scout/">Get the guide &rarr;</a>
 </article><article class="card" data-topics="agents getting-started">
-<a class="thumb" href="/guides/scout-linkedin-profile/"><img src="/assets/guides/linkedin-cover-1.png" alt="Cover of Rewrite Your LinkedIn With Claude" loading="lazy"></a>
+<a class="thumb" href="/guides/scout-linkedin-profile/"><img src="/assets/guides/linkedin-cover-1.png" alt="Cover of Build Your LinkedIn Profile With AI" loading="lazy"></a>
 <div class="chips"><span class="chip">AI agents</span><span class="chip">Getting started</span><span class="chip tool">Claude + Scout</span></div>
-<h3>Let Claude rewrite your whole LinkedIn profile: connect Scout and press one button</h3>
-<p>Connect Scout to Claude, give it your resume, and press one button. A team of AI agents writes your headline, About, experience, Featured and Skills, checked against what&#x27;s true. Every step with screenshots.</p>
+<h3>Build your LinkedIn profile with AI: connect Scout to Claude and let it write every section</h3>
+<p>Create or fix your LinkedIn profile, section by section: headline, About, experience, Skills and Featured. Connect Scout to Claude, give it your resume, and AI agents write every section, checked against what&#x27;s true. Every step with screenshots.</p>
 <a class="go" href="/guides/scout-linkedin-profile/">Get the guide &rarr;</a>
 </article><article class="card" data-topics="agents getting-started">
 <a class="thumb" href="/guides/ai-operating-system-blueprint/"><img src="/assets/guides/os-cover-1.png" alt="Cover of The AI Operating System Blueprint" loading="lazy"></a>

diff --git a/guides/ai-company-blueprint/index.html b/guides/ai-company-blueprint/index.html
@@ -62,10 +62,10 @@
 <p>Connect Scout to Claude and a team of AI agents learns who you are, builds your CareerID and a Showcase website, finds jobs, makes a custom Showcase for each one, applies, and emails the hiring manager. Every step, with screenshots.</p>
 <a class="go" href="/guides/ai-job-agent-scout/">Get the guide &rarr;</a>
 </article><article class="card" data-topics="agents getting-started">
-<a class="thumb" href="/guides/scout-linkedin-profile/"><img src="/assets/guides/linkedin-cover-1.png" alt="Cover of Rewrite Your LinkedIn With Claude" loading="lazy"></a>
+<a class="thumb" href="/guides/scout-linkedin-profile/"><img src="/assets/guides/linkedin-cover-1.png" alt="Cover of Build Your LinkedIn Profile With AI" loading="lazy"></a>
 <div class="chips"><span class="chip">AI agents</span><span class="chip">Getting started</span><span class="chip tool">Claude + Scout</span></div>
-<h3>Let Claude rewrite your whole LinkedIn profile: connect Scout and press one button</h3>
-<p>Connect Scout to Claude, give it your resume, and press one button. A team of AI agents writes your headline, About, experience, Featured and Skills, checked against what&#x27;s true. Every step with screenshots.</p>
+<h3>Build your LinkedIn profile with AI: connect Scout to Claude and let it write every section</h3>
+<p>Create or fix your LinkedIn profile, section by section: headline, About, experience, Skills and Featured. Connect Scout to Claude, give it your resume, and AI agents write every section, checked against what&#x27;s true. Every step with screenshots.</p>
 <a class="go" href="/guides/scout-linkedin-profile/">Get the guide &rarr;</a>
 </article><article class="card" data-topics="agents getting-started">
 <a class="thumb" href="/guides/ai-operating-system-blueprint/"><img src="/assets/guides/os-cover-1.png" alt="Cover of The AI Operating System Blueprint" loading="lazy"></a>

diff --git a/guides/ai-org-chart/index.html b/guides/ai-org-chart/index.html
@@ -62,10 +62,10 @@
 <p>Connect Scout to Claude and a team of AI agents learns who you are, builds your CareerID and a Showcase website, finds jobs, makes a custom Showcase for each one, applies, and emails the hiring manager. Every step, with screenshots.</p>
 <a class="go" href="/guides/ai-job-agent-scout/">Get the guide &rarr;</a>
 </article><article class="card" data-topics="agents getting-started">
-<a class="thumb" href="/guides/scout-linkedin-profile/"><img src="/assets/guides/linkedin-cover-1.png" alt="Cover of Rewrite Your LinkedIn With Claude" loading="lazy"></a>
+<a class="thumb" href="/guides/scout-linkedin-profile/"><img src="/assets/guides/linkedin-cover-1.png" alt="Cover of Build Your LinkedIn Profile With AI" loading="lazy"></a>
 <div class="chips"><span class="chip">AI agents</span><span class="chip">Getting started</span><span class="chip tool">Claude + Scout</span></div>
-<h3>Let Claude rewrite your whole LinkedIn profile: connect Scout and press one button</h3>
-<p>Connect Scout to Claude, give it your resume, and press one button. A team of AI agents writes your headline, About, experience, Featured and Skills, checked against what&#x27;s true. Every step with screenshots.</p>
+<h3>Build your LinkedIn profile with AI: connect Scout to Claude and let it write every section</h3>
+<p>Create or fix your LinkedIn profile, section by section: headline, About, experience, Skills and Featured. Connect Scout to Claude, give it your resume, and AI agents write every section, checked against what&#x27;s true. Every step with screenshots.</p>
 <a class="go" href="/guides/scout-linkedin-profile/">Get the guide &rarr;</a>
 </article><article class="card" data-topics="agents getting-started">
 <a class="thumb" href="/guides/ai-operating-system-blueprint/"><img src="/assets/guides/os-cover-1.png" alt="Cover of The AI Operating System Blueprint" loading="lazy"></a>

diff --git a/guides/ai-system-starter-kit/index.html b/guides/ai-system-starter-kit/index.html
@@ -62,10 +62,10 @@
 <p>Connect Scout to Claude and a team of AI agents learns who you are, builds your CareerID and a Showcase website, finds jobs, makes a custom Showcase for each one, applies, and emails the hiring manager. Every step, with screenshots.</p>
 <a class="go" href="/guides/ai-job-agent-scout/">Get the guide &rarr;</a>
 </article><article class="card" data-topics="agents getting-started">
-<a class="thumb" href="/guides/scout-linkedin-profile/"><img src="/assets/guides/linkedin-cover-1.png" alt="Cover of Rewrite Your LinkedIn With Claude" loading="lazy"></a>
+<a class="thumb" href="/guides/scout-linkedin-profile/"><img src="/assets/guides/linkedin-cover-1.png" alt="Cover of Build Your LinkedIn Profile With AI" loading="lazy"></a>
 <div class="chips"><span class="chip">AI agents</span><span class="chip">Getting started</span><span class="chip tool">Claude + Scout</span></div>
-<h3>Let Claude rewrite your whole LinkedIn profile: connect Scout and press one button</h3>
-<p>Connect Scout to Claude, give it your resume, and press one button. A team of AI agents writes your headline, About, experience, Featured and Skills, checked against what&#x27;s true. Every step with screenshots.</p>
+<h3>Build your LinkedIn profile with AI: connect Scout to Claude and let it write every section</h3>
+<p>Create or fix your LinkedIn profile, section by section: headline, About, experience, Skills and Featured. Connect Scout to Claude, give it your resume, and AI agents write every section, checked against what&#x27;s true. Every step with screenshots.</p>
 <a class="go" href="/guides/scout-linkedin-profile/">Get the guide &rarr;</a>
 </article><article class="card" data-topics="agents getting-started">
 <a class="thumb" href="/guides/ai-operating-system-blueprint/"><img src="/assets/guides/os-cover-1.png" alt="Cover of The AI Operating System Blueprint" loading="lazy"></a>
